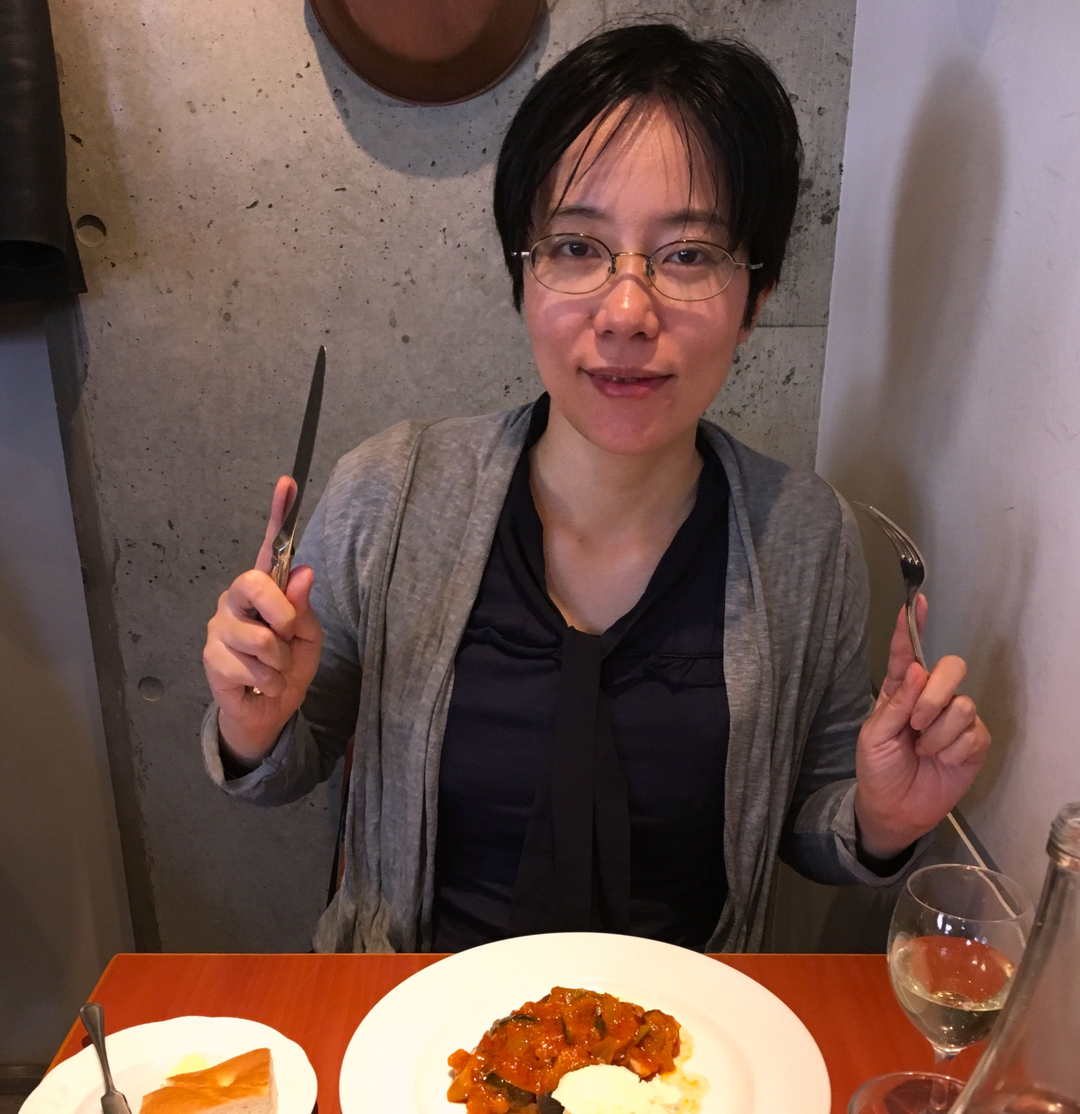
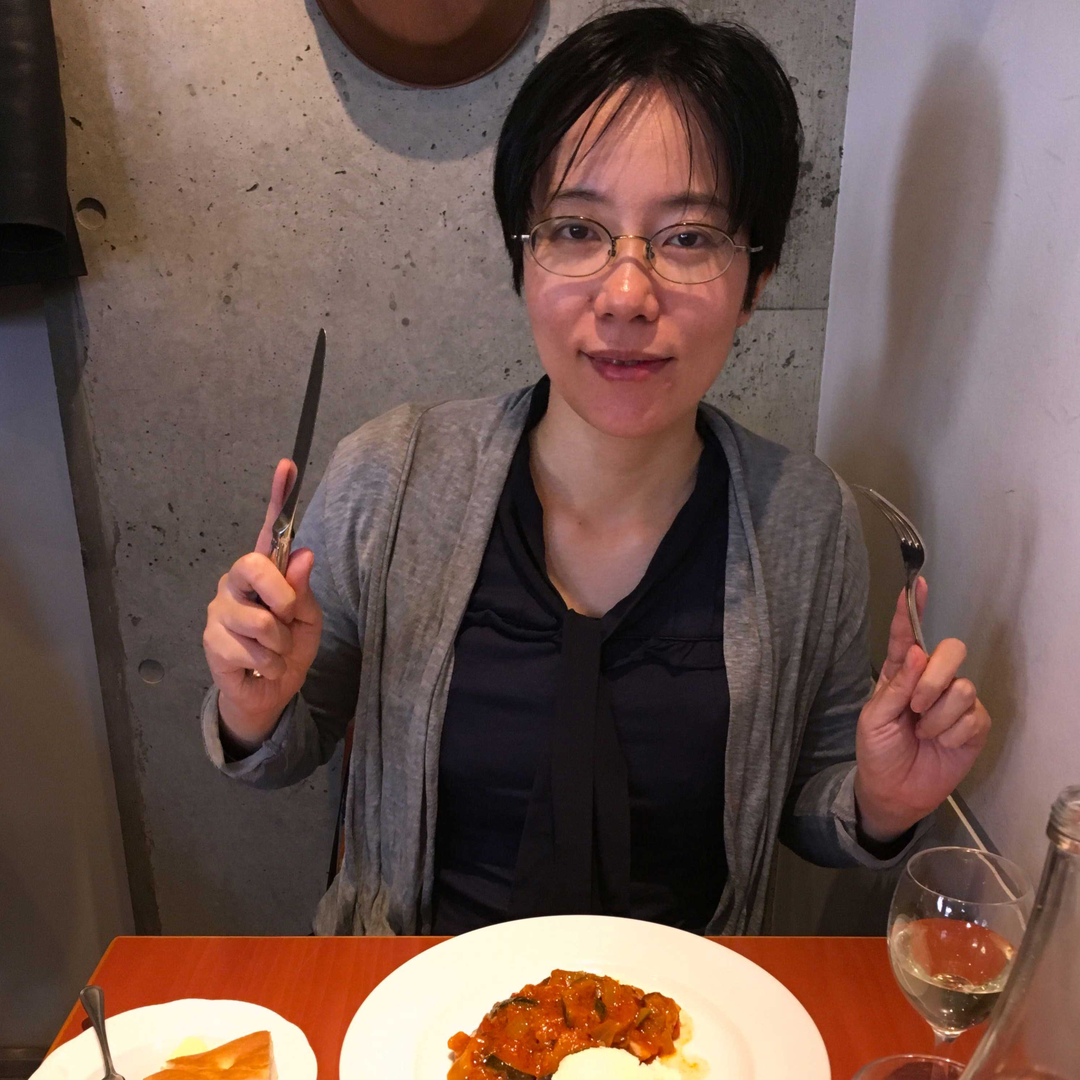
画像を正方形に修正

diff --git a/components/template/Speaker.vue b/components/template/Speaker.vue
@@ -5,15 +5,14 @@
         <v-col lg="6">
           <TitleBlack text="登壇者"></TitleBlack>
           <v-container class="content">
-              <v-row class="speaker-box d-flex">
+              <v-row class="speaker-box d-flex justify-center">
                   <v-col class="item" v-for="item in items" :key="item.name">
-                        <a href="#"><img :src=item.img_src
+                        <a :href=item.account_link target="_blank"><img :src=item.img_src
                                          :alt=item.name
-                        ></a>
+                        >
                         <p class="name">{{item.name}}</p>
                         <p class="post">{{item.post}}</p>
-                      <!-- TODO: SNSへのリンクにする -->
-                        <p class="account">{{item.account}}</p>
+                        <p class="account">{{item.account}}</p></a>
                   </v-col>
               </v-row>
           </v-container>
@@ -70,6 +69,9 @@
           @media (max-width:960px) {
               max-width: 100px;
           }
+          a{
+              text-decoration: none;
+          }
           .name{
               font-family: HiraginoSans-W7;
               font-size: 16px;
@@ -94,6 +96,7 @@
 
       .item img {
           max-width: 100%;
+          border-radius: 50%;
       }
   }
 </style>
